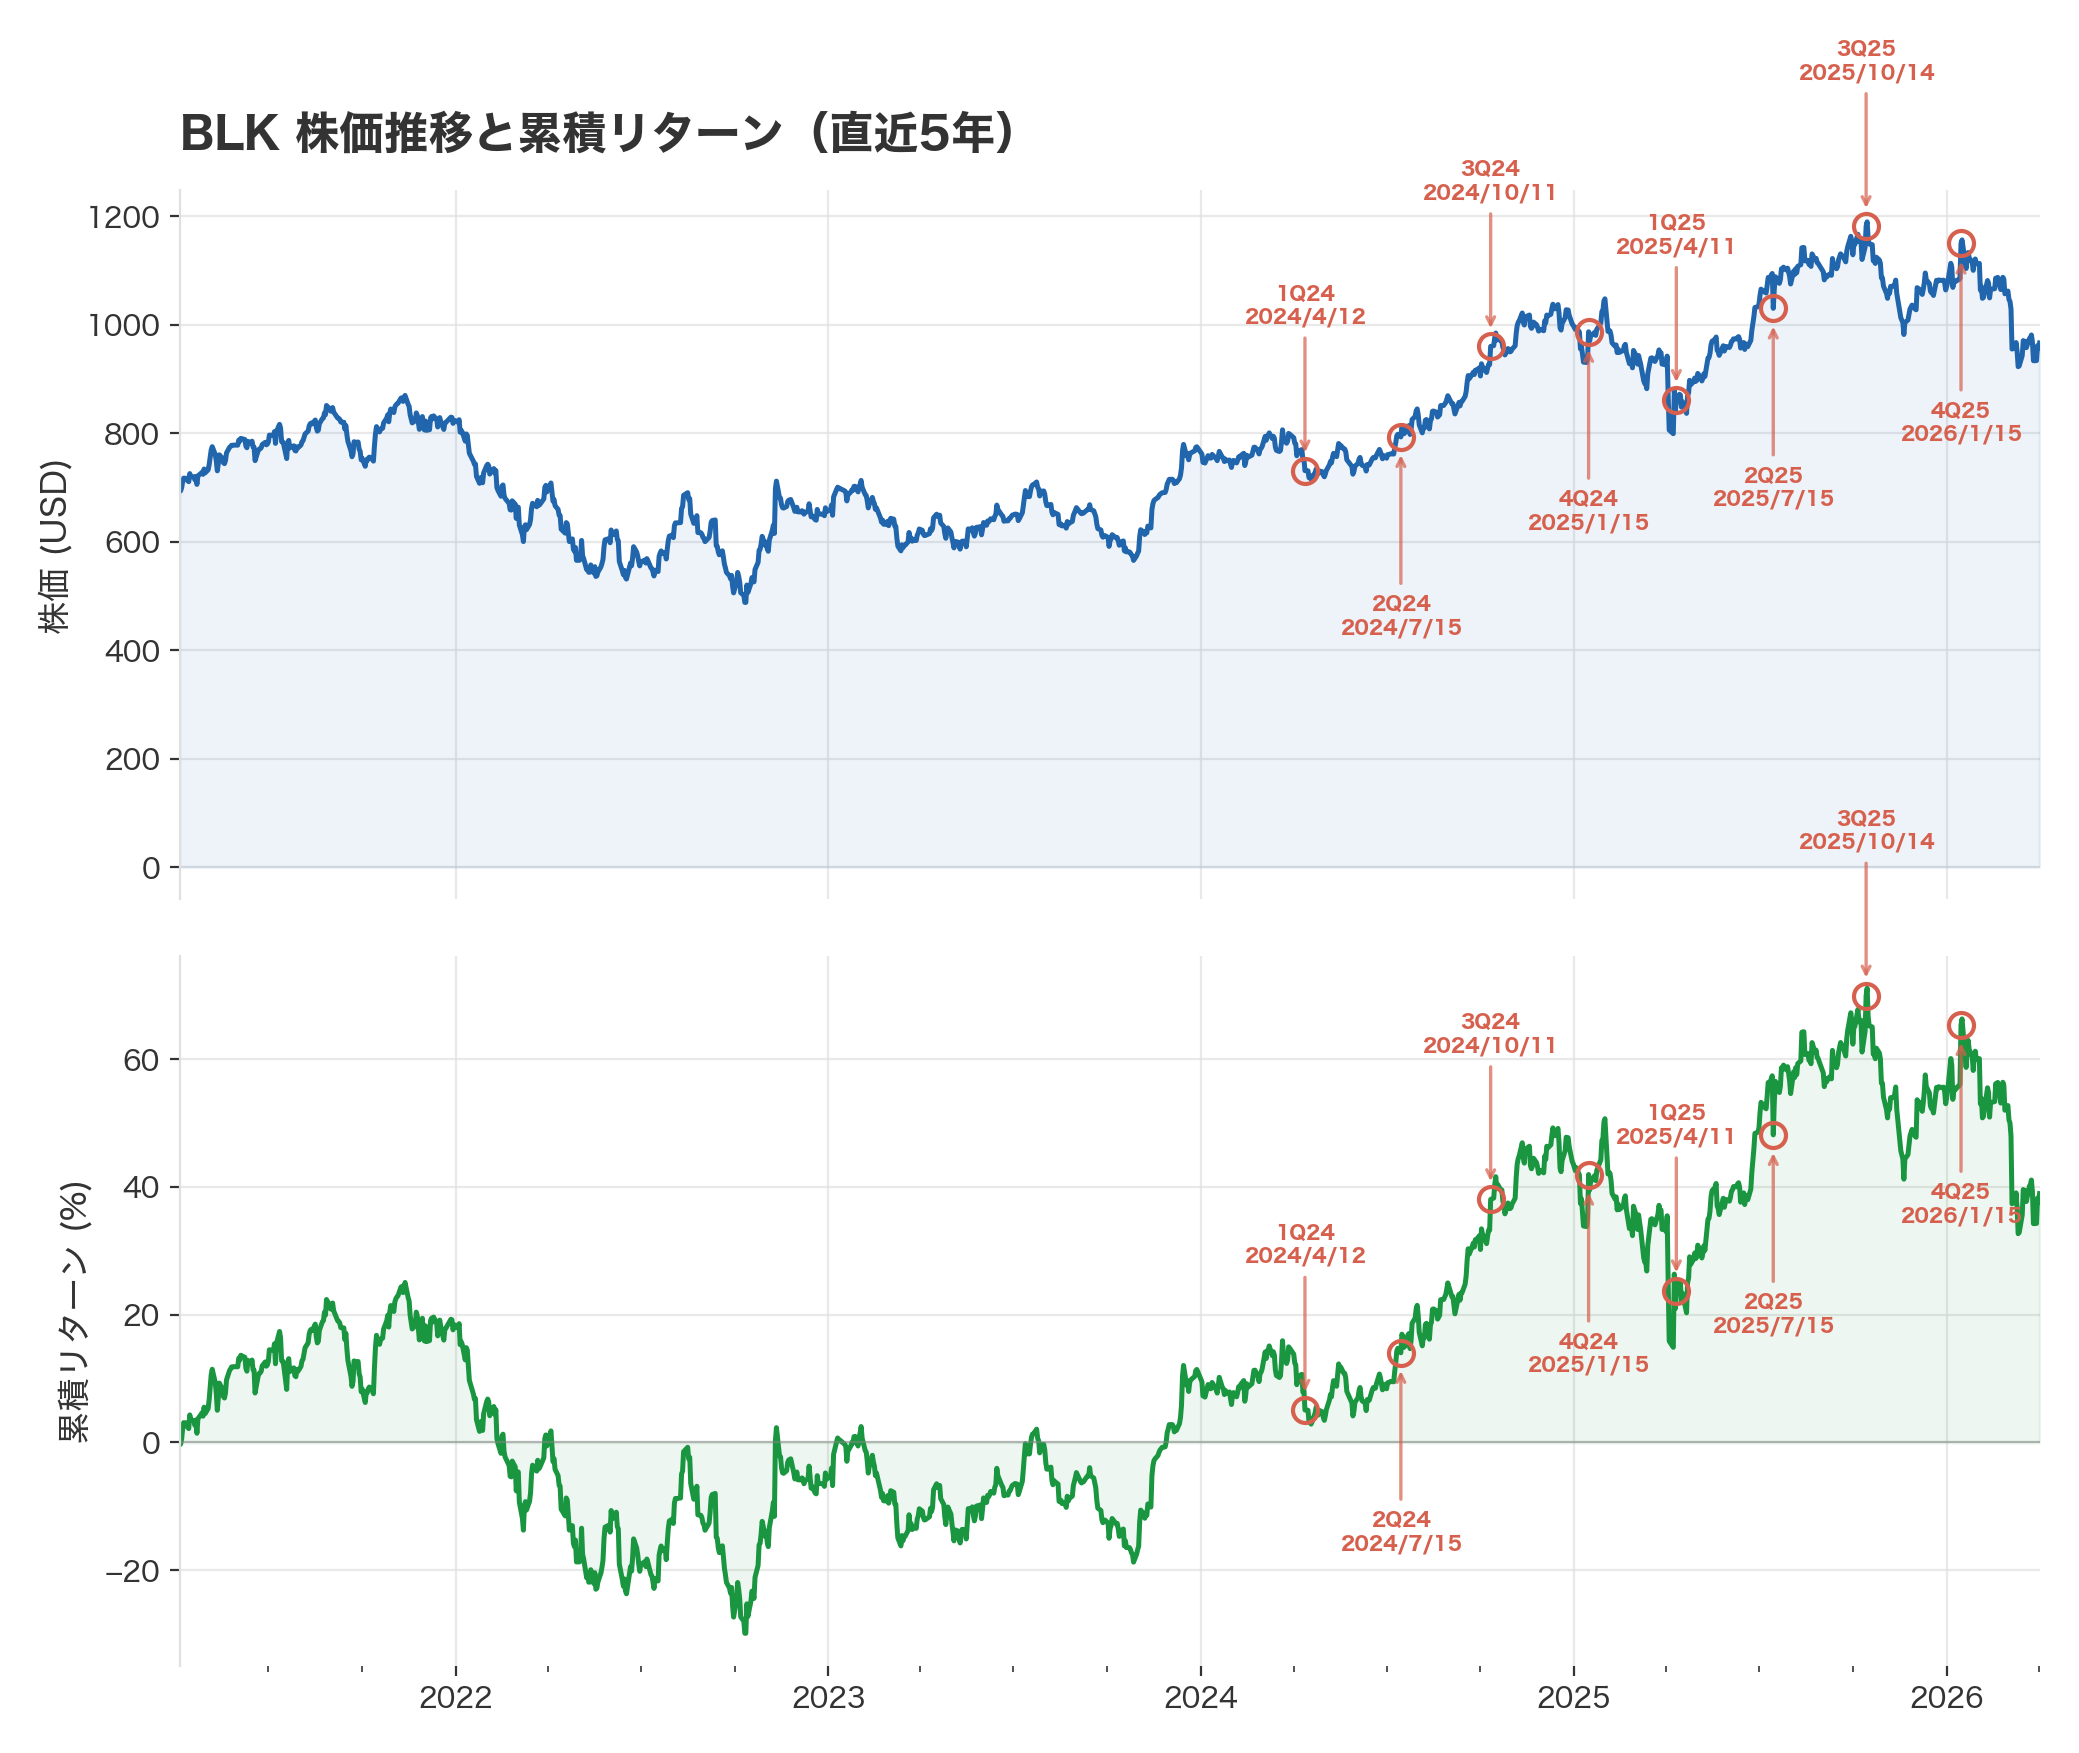
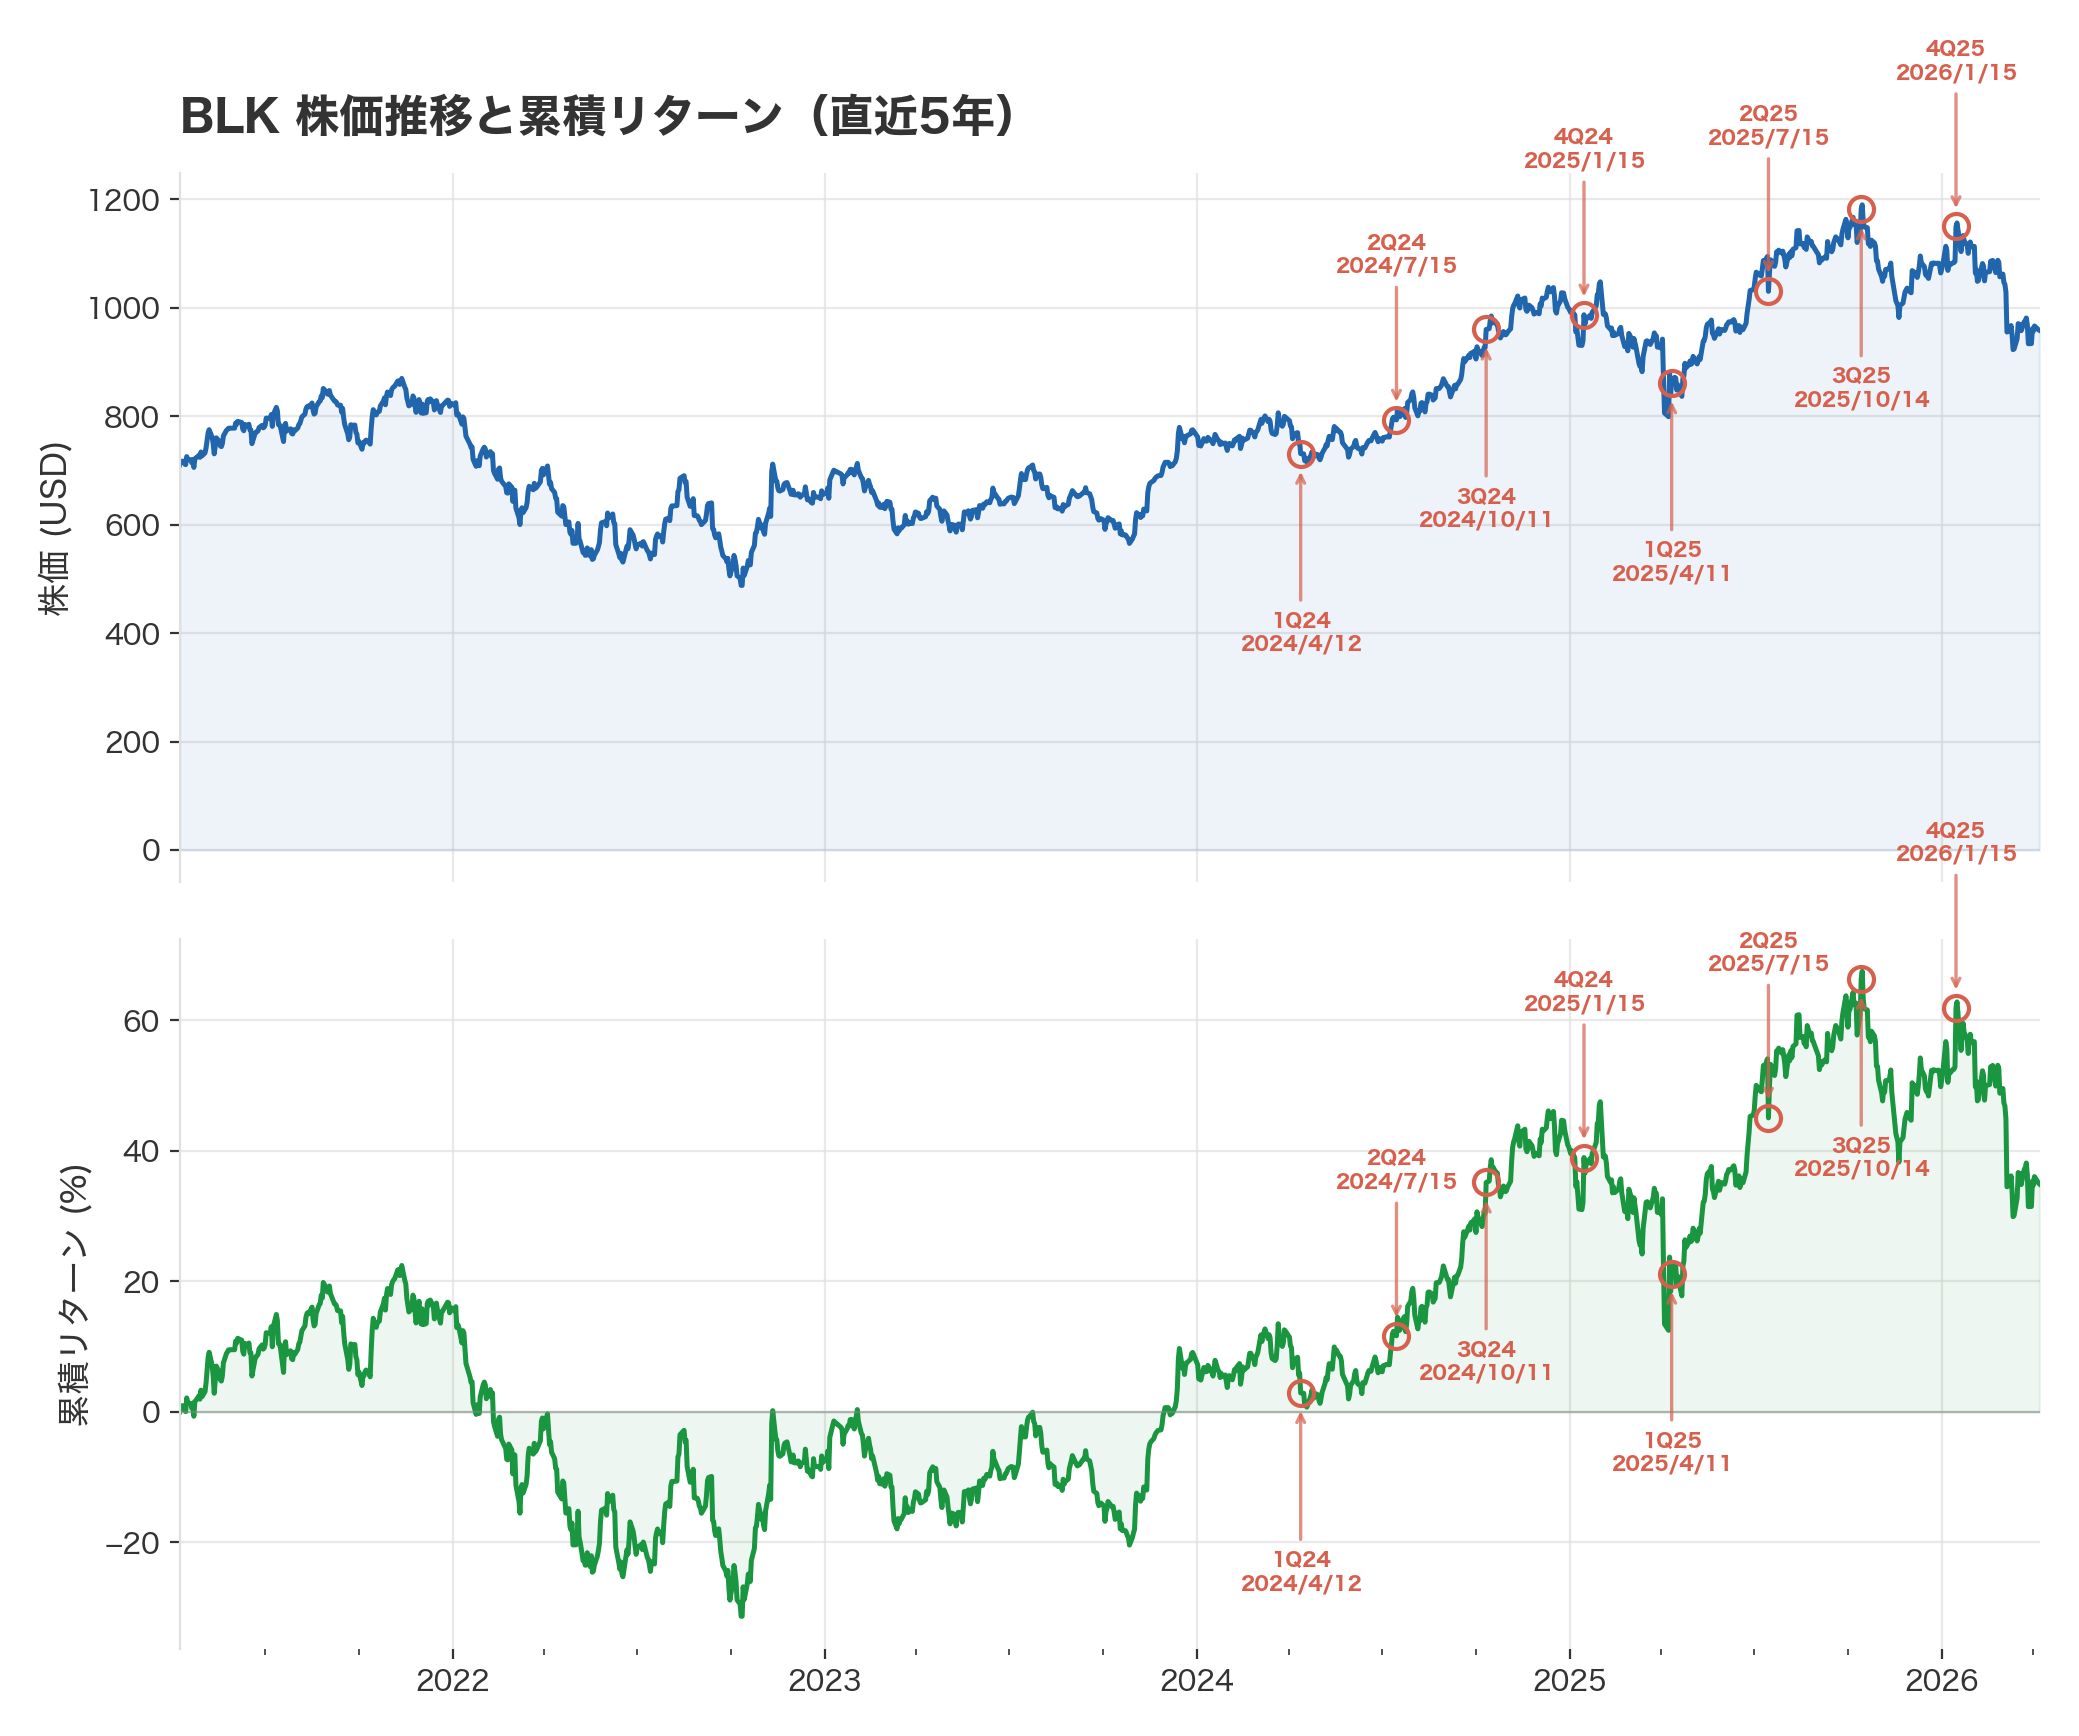
fix(earnings): BLKチャートをアノテーション付きで再生成・スクリプト改善
- chart_price_1y.png: generate_earnings_chart.py --reaction-json で決算日マーカー・
  矢印アノテーション付きチャートを再生成（前回更新時にアノテーションが失われていた）
- generate_earnings_chart.py: --article-dir オプション追加
  - 記事ディレクトリを指定するだけで01_research/*_reaction.jsonを自動探索
  - 出力先を{article_dir}/images/chart_price_1y.pngに自動設定
  - アノテーションなしにしたい場合は --no-annotations フラグで明示指定
  - アノテーション付きが実質デフォルト動作となる
- meta.yaml: workflow.publish を done に更新

diff --git a/scripts/generate_earnings_chart.py b/scripts/generate_earnings_chart.py
@@ -3,20 +3,28 @@
 
 analyze_earnings_reaction.py の出力 JSON から決算発表日を読み取り、
 5年間の株価推移（上段）と累積リターン（下段）の2段チャートを生成する。
-各決算発表日に赤丸マーカーと矢印アノテーションを配置する。
+各決算発表日に赤丸マーカーと矢印アノテーションを配置する（デフォルト動作）。
 
 Examples
 --------
-reaction JSON を入力に自動生成:
+記事ディレクトリを指定（推奨・最も簡単）:
 
-    $ uv run python scripts/generate_earnings_chart.py \\
+    $ PYTHONPATH=scripts uv run --with yfinance python scripts/generate_earnings_chart.py \\
+        --article-dir articles/earnings/2026-04-06_blk-earnings-preview
+
+    出力先は ``{article_dir}/images/chart_price_1y.png`` に自動設定される。
+    ``01_research/*_reaction.json`` を自動探索してアノテーション付きで生成する。
+
+reaction JSON を明示指定:
+
+    $ PYTHONPATH=scripts uv run --with yfinance python scripts/generate_earnings_chart.py \\
         --reaction-json .tmp/blk_reaction.json \\
         --output articles/earnings/.../images/chart_price.png
 
-銘柄指定のみ（reaction JSON なし、決算マーカーなし）:
+アノテーションなし（銘柄指定のみ）:
 
-    $ uv run python scripts/generate_earnings_chart.py \\
-        --symbol BLK \\
+    $ PYTHONPATH=scripts uv run --with yfinance python scripts/generate_earnings_chart.py \\
+        --symbol BLK --no-annotations \\
         --output .tmp/blk_chart.png
 
 Notes
@@ -312,15 +320,44 @@ def generate_earnings_chart(
 # ---------------------------------------------------------------------------
 
 
+def _find_reaction_json(article_dir: Path) -> Path | None:
+    """記事ディレクトリから reaction JSON を自動探索する.
+
+    Parameters
+    ----------
+    article_dir : Path
+        記事ルートディレクトリ（例: ``articles/earnings/2026-04-06_blk-earnings-preview``）。
+
+    Returns
+    -------
+    Path | None
+        見つかった JSON ファイルのパス。見つからない場合は None。
+    """
+    research_dir = article_dir / "01_research"
+    if not research_dir.exists():
+        return None
+    candidates = sorted(research_dir.glob("*_reaction.json"))
+    return candidates[0] if candidates else None
+
+
 def main() -> None:
     """CLI エントリーポイント."""
     parser = argparse.ArgumentParser(
         description="決算プレビュー用 株価 + 累積リターン チャート生成",
+        formatter_class=argparse.RawDescriptionHelpFormatter,
+    )
+    parser.add_argument(
+        "--article-dir", "-d",
+        default=None,
+        help=(
+            "記事ディレクトリパス（推奨）。指定すると 01_research/*_reaction.json を"
+            "自動探索し、出力先を {article_dir}/images/chart_price_1y.png に自動設定する。"
+        ),
     )
     parser.add_argument(
         "--symbol",
         default=None,
-        help="ティッカーシンボル（--reaction-json 未指定時は必須）",
+        help="ティッカーシンボル（--article-dir / --reaction-json 未指定時は必須）",
     )
     parser.add_argument(
         "--reaction-json",
@@ -329,8 +366,13 @@ def main() -> None:
     )
     parser.add_argument(
         "--output", "-o",
-        required=True,
-        help="出力 PNG ファイルパス",
+        default=None,
+        help="出力 PNG ファイルパス（--article-dir 指定時は自動設定）",
+    )
+    parser.add_argument(
+        "--no-annotations",
+        action="store_true",
+        help="決算日マーカー・矢印アノテーションを付けない",
     )
     parser.add_argument(
         "--period",
@@ -340,12 +382,36 @@ def main() -> None:
 
     args = parser.parse_args()
 
-    # reaction JSON があればシンボルと決算日を取得
     earnings_dates: list[tuple[str, str]] | None = None
     symbol = args.symbol
+    output_path = args.output
+    reaction_json_path = args.reaction_json
 
-    if args.reaction_json:
-        reaction_path = Path(args.reaction_json)
+    # --article-dir モード: reaction JSON と出力先を自動解決
+    if args.article_dir:
+        article_dir = Path(args.article_dir)
+        if not article_dir.exists():
+            logger.error("Article directory not found: %s", article_dir)
+            sys.exit(1)
+
+        if output_path is None:
+            output_path = str(article_dir / "images" / "chart_price_1y.png")
+
+        if reaction_json_path is None and not args.no_annotations:
+            found = _find_reaction_json(article_dir)
+            if found:
+                reaction_json_path = str(found)
+                logger.info("Auto-discovered reaction JSON: %s", found)
+            else:
+                logger.warning(
+                    "No *_reaction.json found in %s/01_research/. "
+                    "Generating chart without annotations.",
+                    article_dir,
+                )
+
+    # reaction JSON からシンボル・決算日を取得
+    if reaction_json_path and not args.no_annotations:
+        reaction_path = Path(reaction_json_path)
         if not reaction_path.exists():
             logger.error("Reaction JSON not found: %s", reaction_path)
             sys.exit(1)
@@ -362,11 +428,16 @@ def main() -> None:
         )
 
     if not symbol:
-        parser.error("--symbol または --reaction-json のいずれかを指定してください")
+        parser.error(
+            "--article-dir、--symbol、--reaction-json のいずれかを指定してください"
+        )
+
+    if not output_path:
+        parser.error("--output は --article-dir 未指定時に必須です")
 
     generate_earnings_chart(
         symbol=symbol,
-        output_path=args.output,
+        output_path=output_path,
         earnings_dates=earnings_dates,
         period=args.period,
     )
